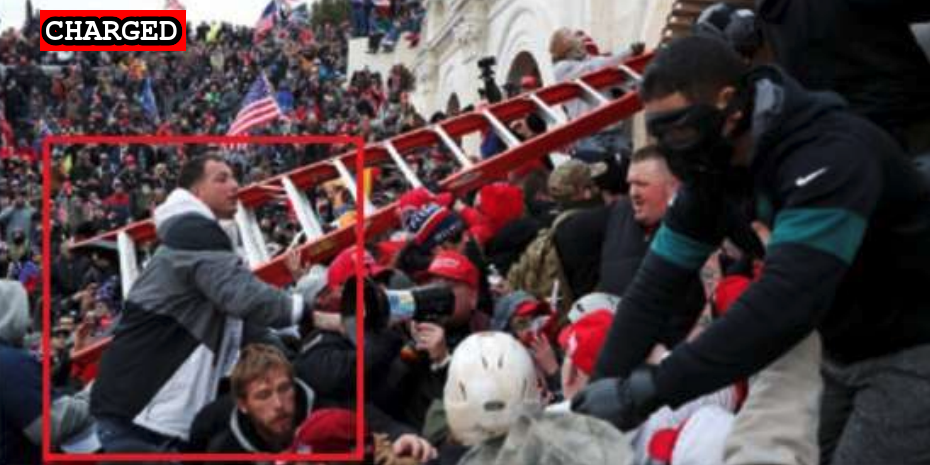
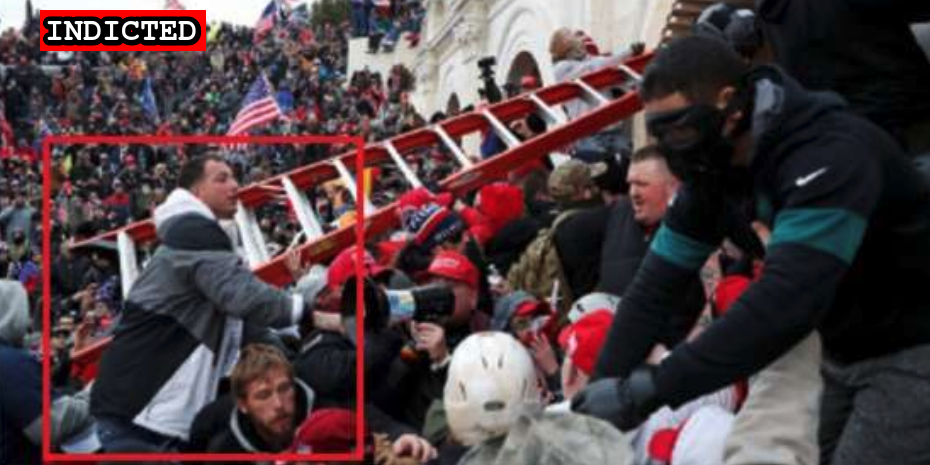
New indictments

Changed region(s): [[0.0312, 0.0, 0.2495, 0.1204]]

diff --git a/commands/suspect-import.ts b/commands/suspect-import.ts
@@ -282,6 +282,7 @@ const linkType = (description: string, lastName?: string) => {
         return "Statement of Facts"
       case /Indictment/.test(description):
       case /indictment/.test(description):
+      case /caldwell_et_al_4th_ss.pdf/.test(description):
         return "Indictment"
       case /Ammended Complaint/.test(description):
         return "Ammended Complaint"

diff --git a/docs/_suspects/sean-mchugh.md b/docs/_suspects/sean-mchugh.md
@@ -3,13 +3,14 @@ name: Sean McHugh
 lastName: McHugh
 aka:
 residence: California
-status: Charged
+status: Indicted
 date: 2021-05-27
 charged: 2021-05-27
-indicted:
-convicted: 
-sentenced: 
-dismissed: 
+indicted: 2021-07-07
+convicted:
+sentenced:
+dismissed:
+deceased:
 age: 34
 occupation:
 affiliations:
@@ -21,7 +22,7 @@ courtroom:
 courthouse:
 raid:
 perpwalk:
-quote: "There is a second amendment behind us, what are you going to do then?"
+quote: 'There is a second amendment behind us, what are you going to do then?'
 title: Sean McHugh arrested on May 27, 2021
 description: Click for latest case details. Suspects innocent until proven guilty.
 author: seditiontrack
@@ -29,5 +30,7 @@ layout: suspect
 published: true
 charges:
 ---
+
 - [News Story](https://www.sacbee.com/news/local/crime/article251748888.html)
 - [Statement of Facts](https://www.justice.gov/opa/case-multi-defendant/file/1399611/download)
+- [Indictment](https://www.justice.gov/usao-dc/case-multi-defendant/file/1410721/download)

diff --git a/docs/_suspects/james-mcgrew.md b/docs/_suspects/james-mcgrew.md
@@ -3,13 +3,14 @@ name: James Mcgrew
 lastName: Mcgrew
 aka:
 residence: Arizona
-status: Charged
+status: Indicted
 date: 2021-05-27
 charged: 2021-05-27
-indicted:
-convicted: 
-sentenced: 
-dismissed: 
+indicted: 2021-06-11
+convicted:
+sentenced:
+dismissed:
+deceased:
 age:
 occupation:
 affiliations:
@@ -29,5 +30,7 @@ layout: suspect
 published: true
 charges:
 ---
+
 - [News Report](https://www.azcentral.com/story/news/local/arizona/2021/06/02/james-burton-mcgrew-king-james-belly-tattoo-arrested-arizona-striking-2-officers-capitol-riot-jan-6/7499980002/)
 - [Statement of Facts](https://www.justice.gov/usao-dc/case-multi-defendant/file/1400856/download)
+- [Indictment](https://www.justice.gov/usao-dc/case-multi-defendant/file/1410716/download)

diff --git a/docs/_suspects/matthew-purse.md b/docs/_suspects/matthew-purse.md
@@ -1,0 +1,35 @@
+---
+name: Matthew Purse
+lastName: Purse
+aka:
+residence:
+status: Charged
+date: 2021-06-28
+charged: 2021-06-28
+indicted:
+convicted:
+sentenced:
+dismissed:
+deceased:
+age:
+occupation:
+affiliations:
+jurisdiction: Federal
+image: /images/preview/matthew-purse.jpg
+suspect: matthew-purse.jpg
+booking:
+courtroom:
+courthouse:
+raid:
+perpwalk:
+quote:
+title: Matthew Purse charged on June 28, 2021
+description: Click for latest case details. Suspects innocent until proven guilty.
+author: seditiontrack
+layout: suspect
+published: false
+charges:
+---
+
+- [News Report]()
+- [Statement of Facts](https://www.justice.gov/usao-dc/case-multi-defendant/file/1410621/download)

diff --git a/docs/_suspects/abram-markofski.md b/docs/_suspects/abram-markofski.md
@@ -8,8 +8,9 @@ date: 2021-04-27
 charged: 2021-04-27
 indicted:
 convicted: 
-sentenced: 
+sentenced:
 dismissed: 
+deceased:
 age:
 occupation:
 affiliations: National Guard
@@ -32,3 +33,4 @@ charges:
 - [News Report](https://www.channel3000.com/dane-co-la-crosse-co-men-charged-for-entering-u-s-capitol-during-january-6th-riot/)
 - [Complaint](https://www.justice.gov/usao-dc/case-multi-defendant/file/1391401/download)
 - [Statement of Facts](https://www.justice.gov/usao-dc/case-multi-defendant/file/1391406/download)
+- [Information](https://www.justice.gov/usao-dc/case-multi-defendant/file/1410641/download)

diff --git a/docs/_suspects/debra-maimone.md b/docs/_suspects/debra-maimone.md
@@ -8,8 +8,9 @@ date: 2021-03-12
 charged: 2021-03-12
 indicted:
 convicted: 
-sentenced: 
+sentenced:
 dismissed: 
+deceased:
 age: 27
 occupation: Busines Owner
 affiliations:
@@ -31,3 +32,4 @@ charges:
 ---
 - [News Report](https://www.wpxi.com/news/top-stories/local-business-owners-charged-connection-with-violence-us-capitol/5E2CEWKFCVAZHLD5YPHS25DA3U/)
 - [Statement of Facts](https://extremism.gwu.edu/sites/g/files/zaxdzs2191/f/Debra%20Maimone%20Statement%20of%20Facts.pdf)
+- [Information](https://www.justice.gov/usao-dc/case-multi-defendant/file/1410636/download)

diff --git a/docs/_suspects/savannah-mcdonald.md b/docs/_suspects/savannah-mcdonald.md
@@ -8,8 +8,9 @@ date: 2021-06-11
 charged: 2021-06-11
 indicted:
 convicted: 
-sentenced: 
+sentenced:
 dismissed: 
+deceased:
 age:
 occupation:
 affiliations:
@@ -31,3 +32,4 @@ charges:
 ---
 - [News Report](https://www.emptywheel.net/2021/06/15/the-delayed-trespassing-charges-against-savanah-mcdonald-and-nolan-kidd/)
 - [Statement of Facts](https://www.justice.gov/usao-dc/case-multi-defendant/file/1404531/download)
+- [Information](https://www.justice.gov/usao-dc/case-multi-defendant/file/1410706/download)
